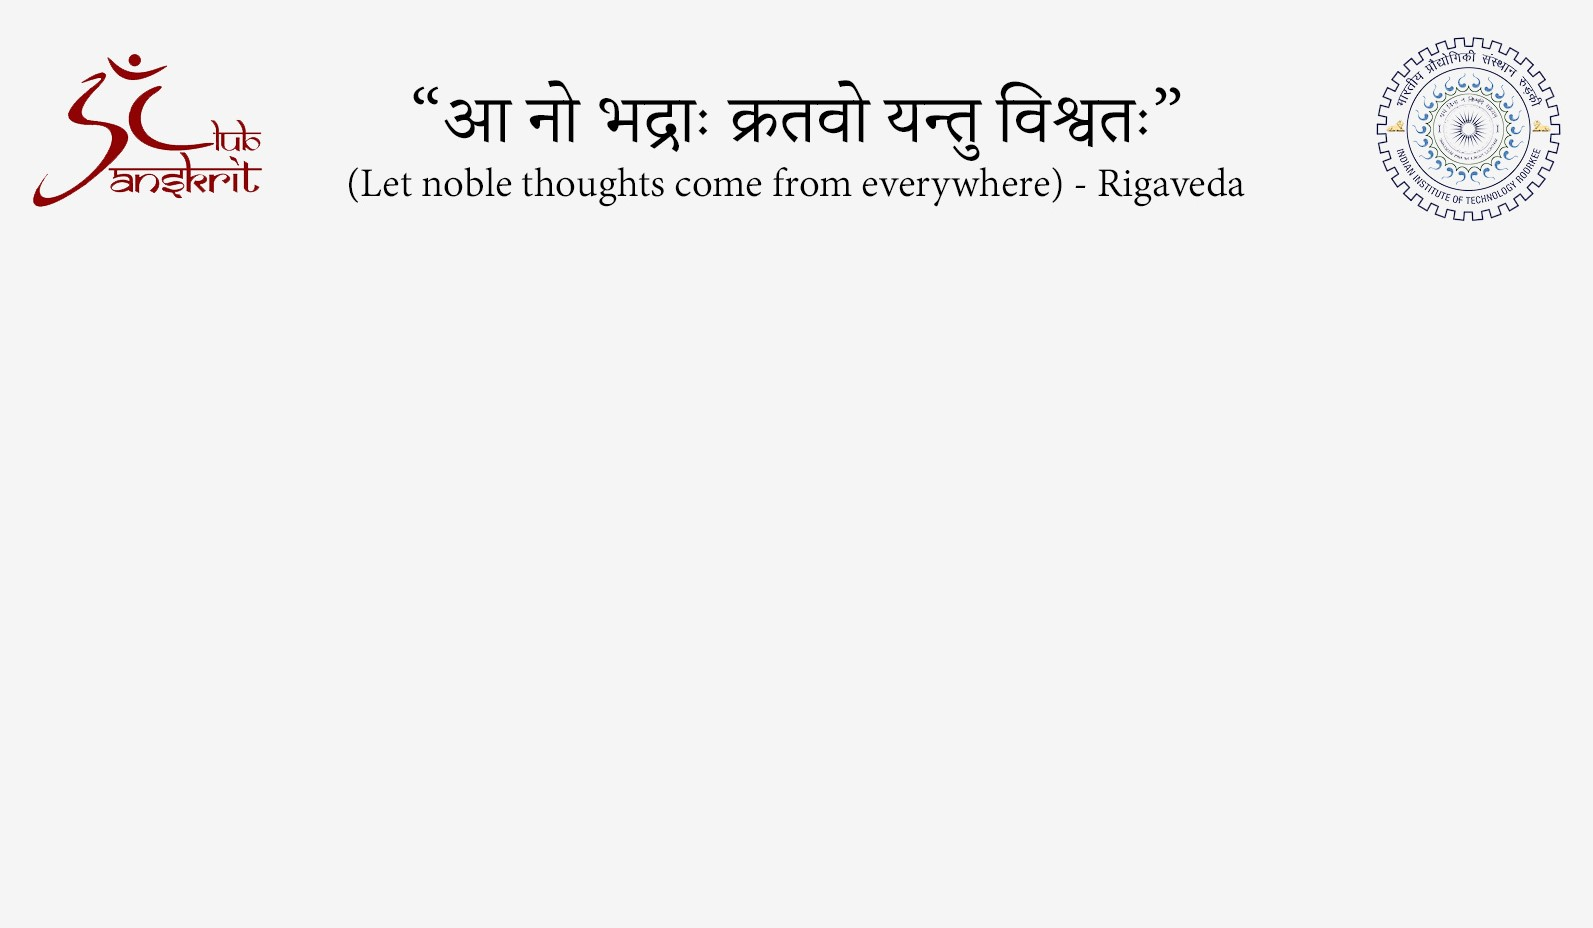
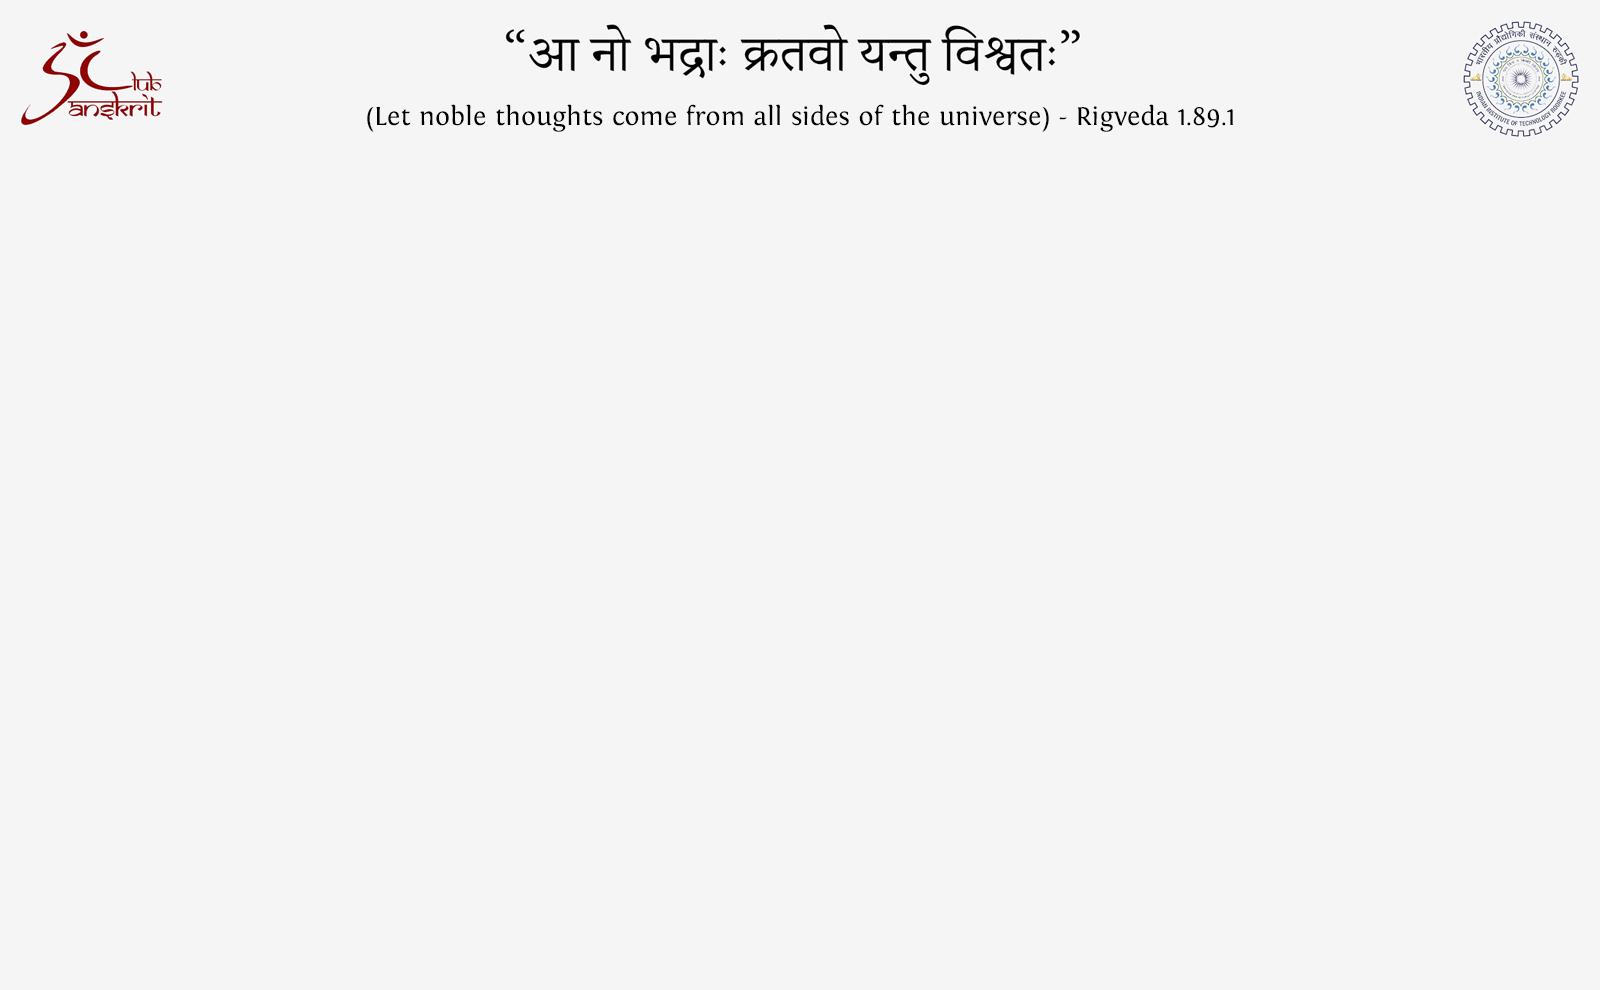
fixed bg and navbar

Changed region(s): [[0.2153, 0.0312, 0.7997, 0.2188], [0.8613, 0.0312, 0.9843, 0.25], [0.0, 0.0312, 0.1538, 0.2188]]

diff --git a/assets/css/main.css b/assets/css/main.css
@@ -440,7 +440,7 @@
 /* Wrapper */
 
 	.wrapper {
-		padding: 6rem 0 4rem 0 ;
+		padding: 1rem 0 1rem 0 ;
 		position: relative;
 		margin: 0;
 	}
@@ -474,9 +474,10 @@
 			background-color: #000;
 			color: #bfbfbf;
 			background-image: url(../../images/bg.jpeg);
+			background-position: bottom;
 			background-size: cover;
 			background-attachment: fixed;
-			background-position: center top;
+			
 			position: relative;
 		}
 
@@ -575,7 +576,7 @@
 
 	#flexgrid {
 		width: 100%;
-		margin: 0 0 2.5rem 0;
+		margin: 0 0 0rem 0;
 		display: -moz-flex;
 		display: -webkit-flex;
 		display: -ms-flex;
@@ -872,7 +873,7 @@ footer h1{
 .main{
         		background-image: url(../../images/bgm.jpg);
         		background-size: cover;
-            height: 40vh;
+            height: 22vh;
         	}
 
         	#flexgrid a{

diff --git a/index.html b/index.html
@@ -55,7 +55,7 @@
 							</header>
 						</div>
             
-            <div>
+            		<div>
 							<header>
 								<h3><a href="subhashitam.html">Subhashitam Samskritam</a></h3>
 							</header>
